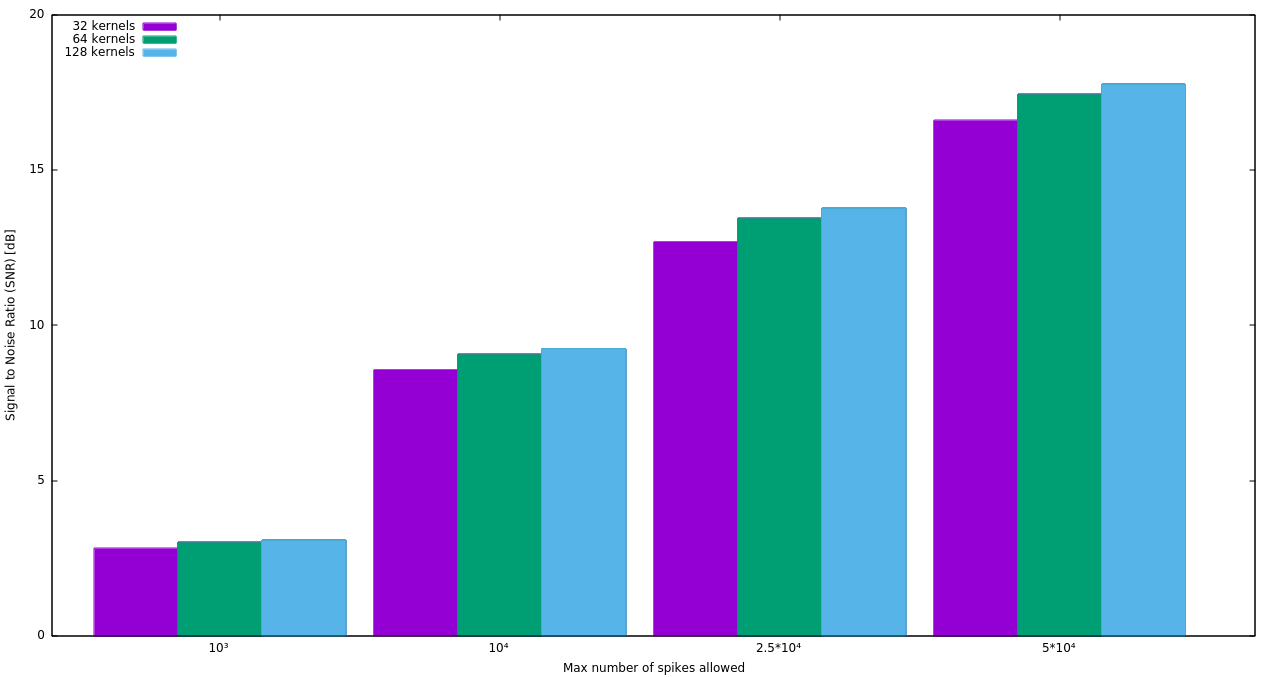
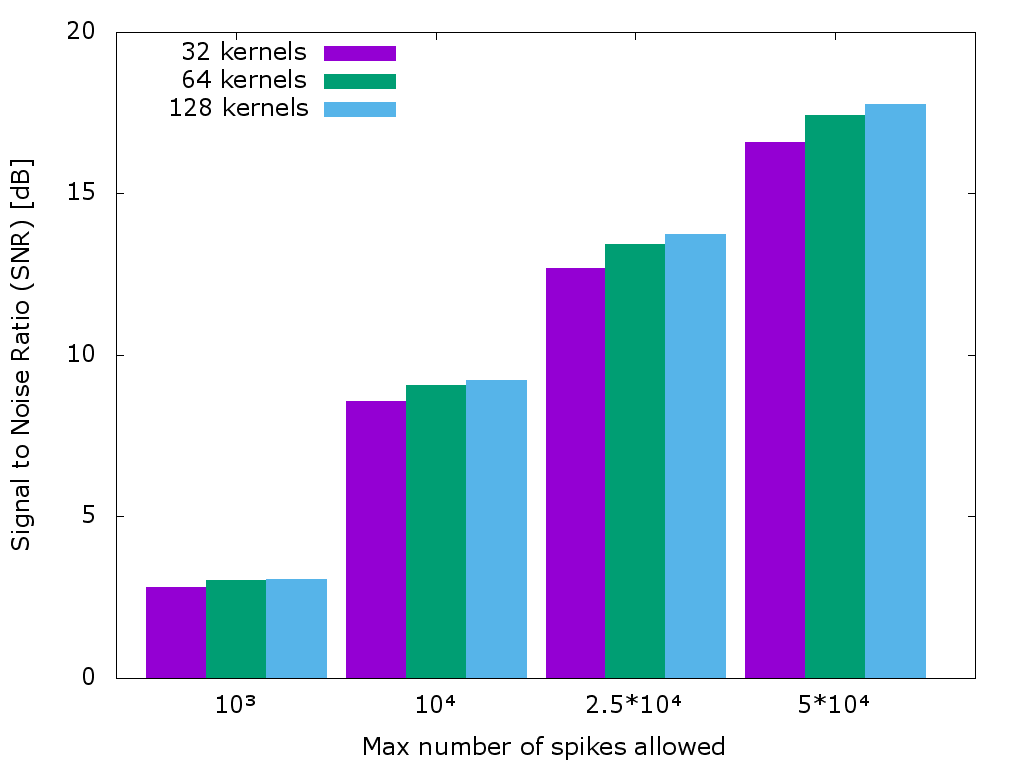
melhor tab1 imagem

diff --git a/scripts_data/tab1_script.m b/scripts_data/tab1_script.m
@@ -1,3 +1,12 @@
+set term png size 1024,768
+set output "../src/img/tab1.png"
+
+set terminal png enhanced font 'Verdana,18'
+
+#set key font ",18"
+#set xtics font "Verdana,18"
+#set xtics font "Verdana,18"
+
 set xtics ("10³" 30, "10⁴" 130, "2.5*10⁴" 230, "5*10⁴" 330,)
 
 set key left top
@@ -8,8 +17,8 @@ set xrange [-30:400]
 set xlabel ('Max number of spikes allowed')
 set ylabel ('Signal to Noise Ratio (SNR) [dB]')
 
+
 plot 	'tab1.dat' every ::0 using 1:2 with boxes ls 1 t '32 kernels', \
 		'tab1.dat' every ::1 using 1:2 with boxes ls 2 t '64 kernels', \
 		'tab1.dat' every ::2 using 1:2 with boxes ls 3 t '128 kernels'
 
-pause -1
